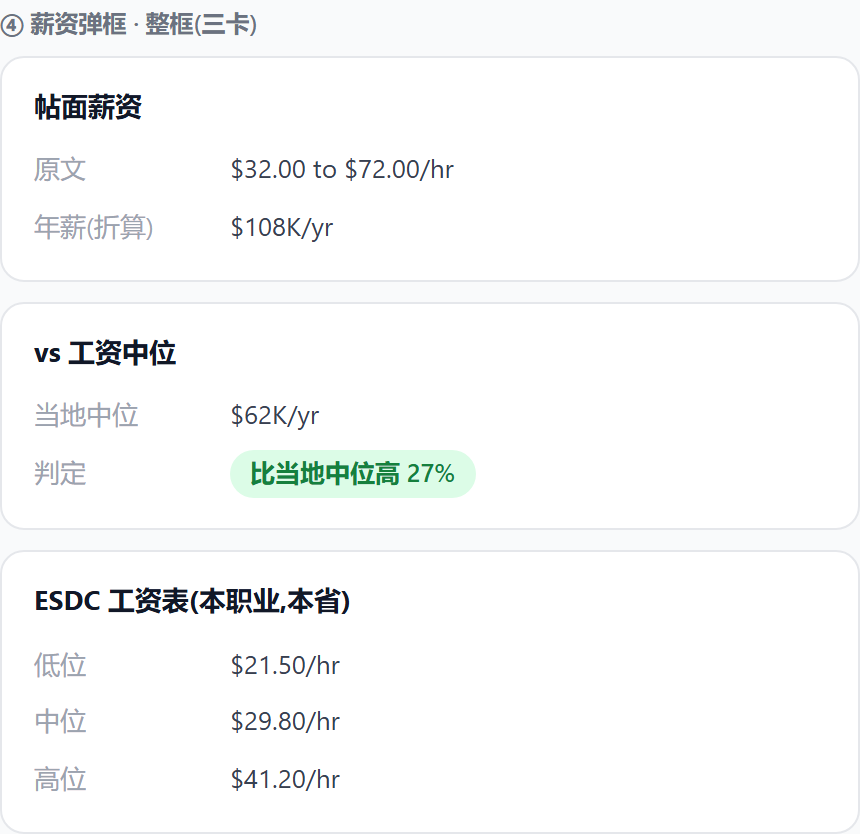
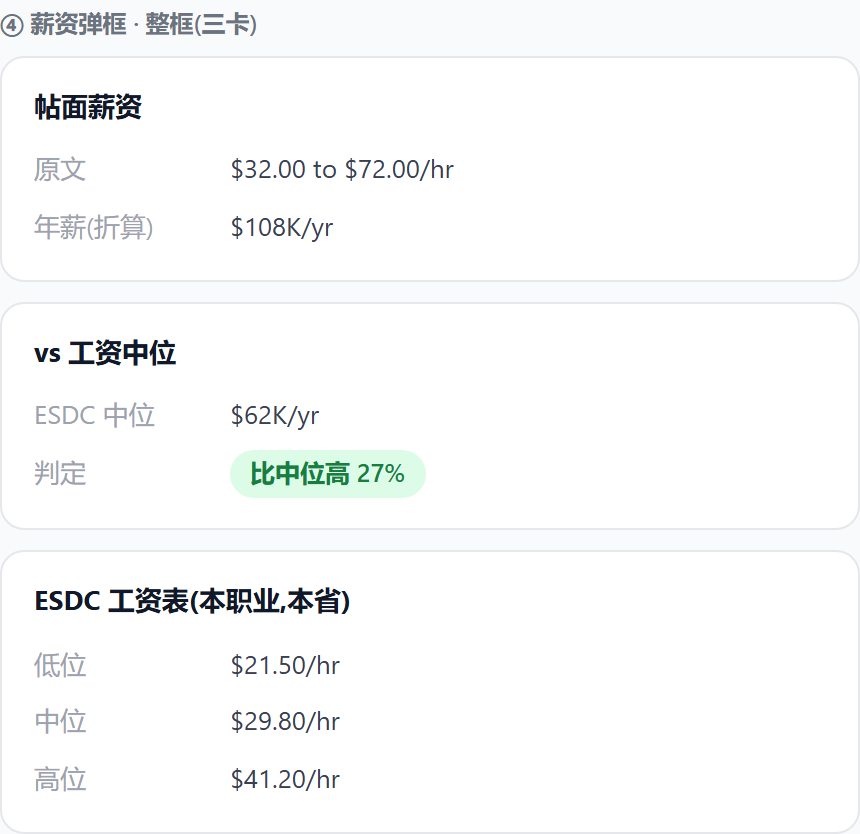
docs(E8-13 v5): 通道判定点名清单+清单可开关;EE 四行直判(类别+CEC/FSW/FST 三项目,Frank「把这些都弄清楚」);ESDC 中位标签显名

Changed region(s): [[0.3023, 0.53, 0.5744, 0.6235], [0.0302, 0.4676, 0.1814, 0.53]]

diff --git a/docs/assets/mockups/E8-13-深耕A批.html b/docs/assets/mockups/E8-13-深耕A批.html
@@ -37,8 +37,14 @@
   <div class="plabel">⓪ 通道弹框(点「通道」列)· 三通道一眼直判 —— 头牌</div>
   <div class="card">
     <div class="chead">这个岗能走哪条通道</div>
-    <div class="frow"><span class="k">省提名 PNP</span><span class="v"><span class="pill ok">能走: AB 科技通道</span></span></div>
-    <div class="frow"><span class="k">EE</span><span class="v"><span class="pill ok">能进类别抽选: 医疗类</span></span></div>
+    <div class="frow"><span class="k">省提名 PNP</span><span class="v"><span class="pill ok">能走: AB 科技清单</span></span><span style="color:#6b7280">清单 ▴</span></div>
+    <div style="margin:2px 0 6px 98px;border-left:2px solid #f3f4f6;padding-left:10px">
+      <div class="frow" style="padding:2px 0"><span class="v" style="color:#111827;font-weight:600">21232 Software developers(本岗)</span></div>
+      <div class="frow" style="padding:2px 0"><span class="v">21231 Software engineers</span></div>
+      <div class="frow" style="padding:2px 0"><span class="v">21230 Computer systems developers</span></div>
+      <div class="frow" style="padding:2px 0"><span class="v" style="color:#9ca3af">展开其余 35 项 ▾</span></div>
+    </div>
+    <div class="frow"><span class="k">EE</span><span class="v"><span class="pill ok">能进类别抽选: STEM 类</span></span><span style="color:#6b7280">清单 ▾</span></div>
     <div class="frow"><span class="k">AIP</span><span class="v"><span class="pill na">走不了(仅大西洋四省)</span></span></div>
   </div>
 </div>
@@ -56,14 +62,19 @@
 
 <!-- ② EE -->
 <div class="panel" id="p-ee">
-  <div class="plabel">② EE · 结论行改直判(类别块不动)</div>
+  <div class="plabel">② EE · 类别+三项目四行直判(TEER 2 软件岗示例)</div>
   <div class="card">
-    <div class="chead">EE 类别</div>
-    <div class="frow"><span class="k">判定</span><span class="v"><span class="pill ok">能进类别抽选: 医疗类</span></span></div>
-    <div class="frow"><span class="k">近两年</span><span class="v">该类别抽选 12 轮</span></div>
+    <div class="chead">EE</div>
+    <div class="frow"><span class="k">类别抽选</span><span class="v"><span class="pill ok">能进: STEM 类</span></span><span style="color:#6b7280">清单 ▾</span></div>
+    <div class="frow"><span class="k">CEC 经验类</span><span class="v"><span class="pill ok">能走,纯拼分数</span></span></div>
+    <div class="frow"><span class="k">FSW 技术移民</span><span class="v"><span class="pill ok">能走,offer 可加分</span></span></div>
+    <div class="frow"><span class="k">FST 技工类</span><span class="v"><span class="pill na">非技工职业</span></span></div>
   </div>
   <div class="card">
-    <div class="frow" style="padding:0"><span class="v"><span class="pill na">无类别加成,走通用抽选</span><span style="color:#9ca3af;font-size:11.5px">　← 未命中态</span></span></div>
+    <div class="frow" style="padding:2px 0"><span class="k">类别抽选</span><span class="v"><span class="pill na">无类别命中</span></span></div>
+    <div class="frow" style="padding:2px 0"><span class="k">CEC 经验类</span><span class="v"><span class="pill na">TEER 4 经验不积累</span></span></div>
+    <div class="frow" style="padding:2px 0"><span class="k">FSW 技术移民</span><span class="v"><span class="pill na">TEER 4 不符</span></span></div>
+    <div class="frow" style="padding:2px 0"><span class="k">FST 技工类</span><span class="v"><span class="pill na">非技工职业</span><span style="color:#9ca3af;font-size:11.5px">　← TEER 4 岗示例</span></span></div>
   </div>
 </div>
 
@@ -94,8 +105,8 @@
   </div>
   <div class="card">
     <div class="chead">vs 工资中位</div>
-    <div class="frow"><span class="k">当地中位</span><span class="v">$62K/yr</span></div>
-    <div class="frow"><span class="k">判定</span><span class="v"><span class="pill ok">比当地中位高 27%</span></span></div>
+    <div class="frow"><span class="k">ESDC 中位</span><span class="v">$62K/yr</span></div>
+    <div class="frow"><span class="k">判定</span><span class="v"><span class="pill ok">比中位高 27%</span></span></div>
   </div>
   <div class="card">
     <div class="chead">ESDC 工资表(本职业,本省)</div>

diff --git a/docs/implementation/E8-UI体验统一/13_字段弹框深耕A批.md b/docs/implementation/E8-UI体验统一/13_字段弹框深耕A批.md
@@ -9,11 +9,12 @@
 ![通道三行直判](../../assets/mockups/E8-13-channel.png)
 
 - 点「通道」列 → 置顶新块「这个岗能走哪条通道」:PNP/EE/AIP 一行一判;既有通道档卡(#122 拆解)保留其下。
+- **判定点名清单,清单挂行下可开可关**(▴/▾;命中职业行加粗标「(本岗)」,长清单默认收起显前 3 项+「展开其余 N 项」)。
 - 判定复用三处既有逻辑(PnpListSection/EeCategorySection/AIP 新三态),零新数据。
 
 ## ①-⑥ 各弹框
 
-| ① PNP 判定改直判(四卡不动) | ② EE 直判(类别块不动) |
+| ① PNP 判定改直判(四卡不动) | ② EE 类别+三项目四行直判 |
 |---|---|
 | ![PNP](../../assets/mockups/E8-13-pnp.png) | ![EE](../../assets/mockups/E8-13-ee.png) |
 
@@ -42,7 +43,8 @@
 - **通道直判**:immigration 组置顶三行块;AIP 判定=新 aipVerdict(job)(三态);PNP/EE 判定=各自 Section 既有命中逻辑抽薄函数复用,不重写。
 - **AIP**:`hasFacts('aip')` 恒真;三态药丸(能走/走不了·不在名单/走不了·仅大西洋四省);命中清单去 `e.province===job.province` 限制;`fact.aipNote` 来源注**删**。
 - **薪资(整框三卡)**:帖面卡=原文+年薪折算(照旧);对照卡=当地中位一行+判定药丸「比当地中位高/低 X%」;ESDC 卡=低位/中位/高位**一行一条**(横杠串「$45K – $62K – $86K」退役);band 缺=对应行不出。
-- **PNP/EE**:判定行措辞改直判(「能走: AB 科技通道」/「能进类别抽选: 医疗类」/「无类别加成,走通用抽选」);EE 加「近两年该类别抽选 N 轮」一行(数据在库)。
+- **EE 四行直判(07-25 Frank「EE 不是有三个类别吗,把这些都弄清楚」)**:类别抽选(命中类可展开清单)+ 三项目各一行——CEC 经验类(TEER 0-3 经验可积累,纯拼分数;TEER 4/5=不积累)/FSW 技术移民(TEER 0-3 能走,offer 可加分)/FST 技工类(NOC 在官方技工 Major Group 常量表才能走);判据只用 TEER/NOC,不下资格判定。
+- **PNP**:判定行措辞改直判「能走: AB 科技清单」,清单折叠同⓪规范。
 - **公司**:担保记录加季度明细行(近 4 季各一行+更早合并,lmia 原始季度数据在库);来源注删。
 - **分类**:尾加「移民面貌」三行:省清单命中药丸/全国在招/本省在招(pnp_occupations 反查+stats,零新抓取)。
 - **i18n**:新键三语齐(en/ko 显式,#146 教训);全部文案一行铁律。
